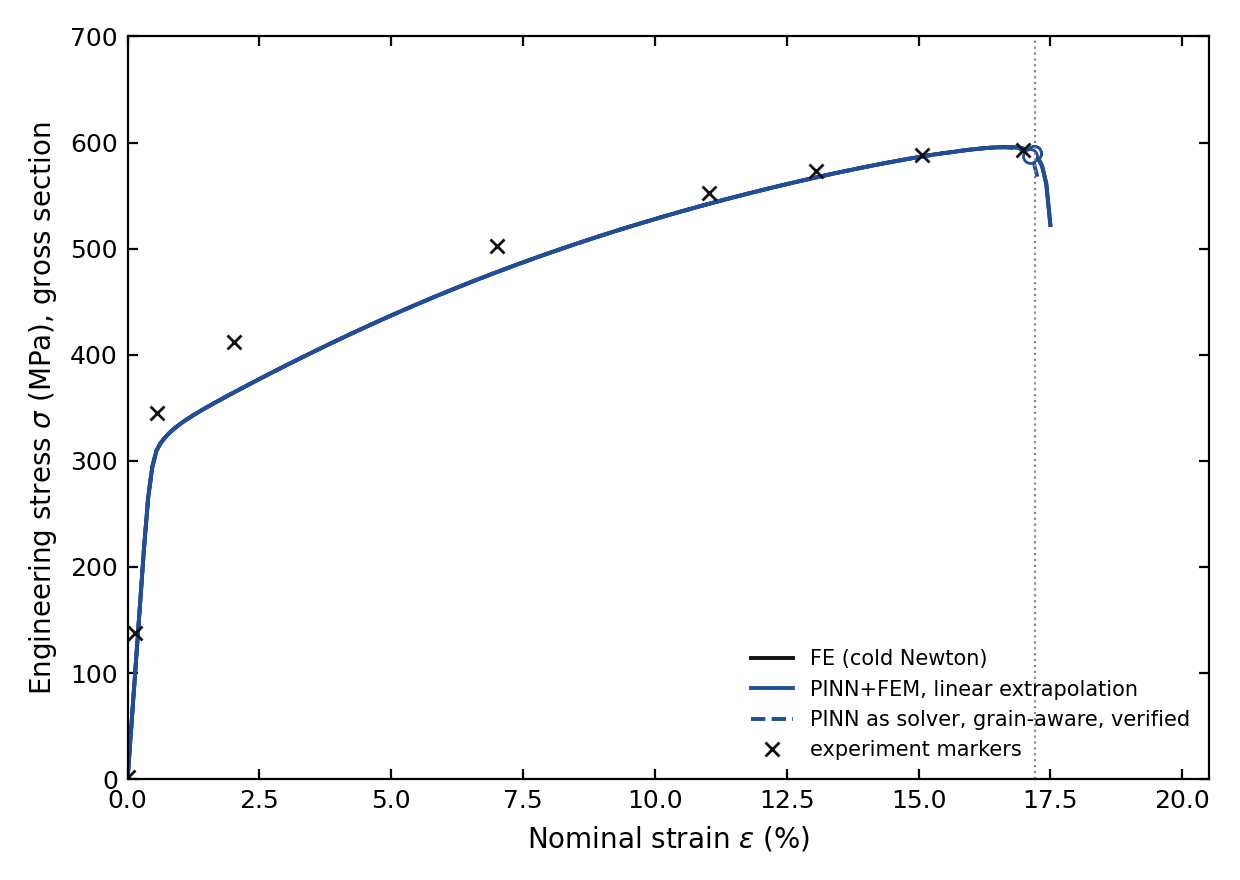
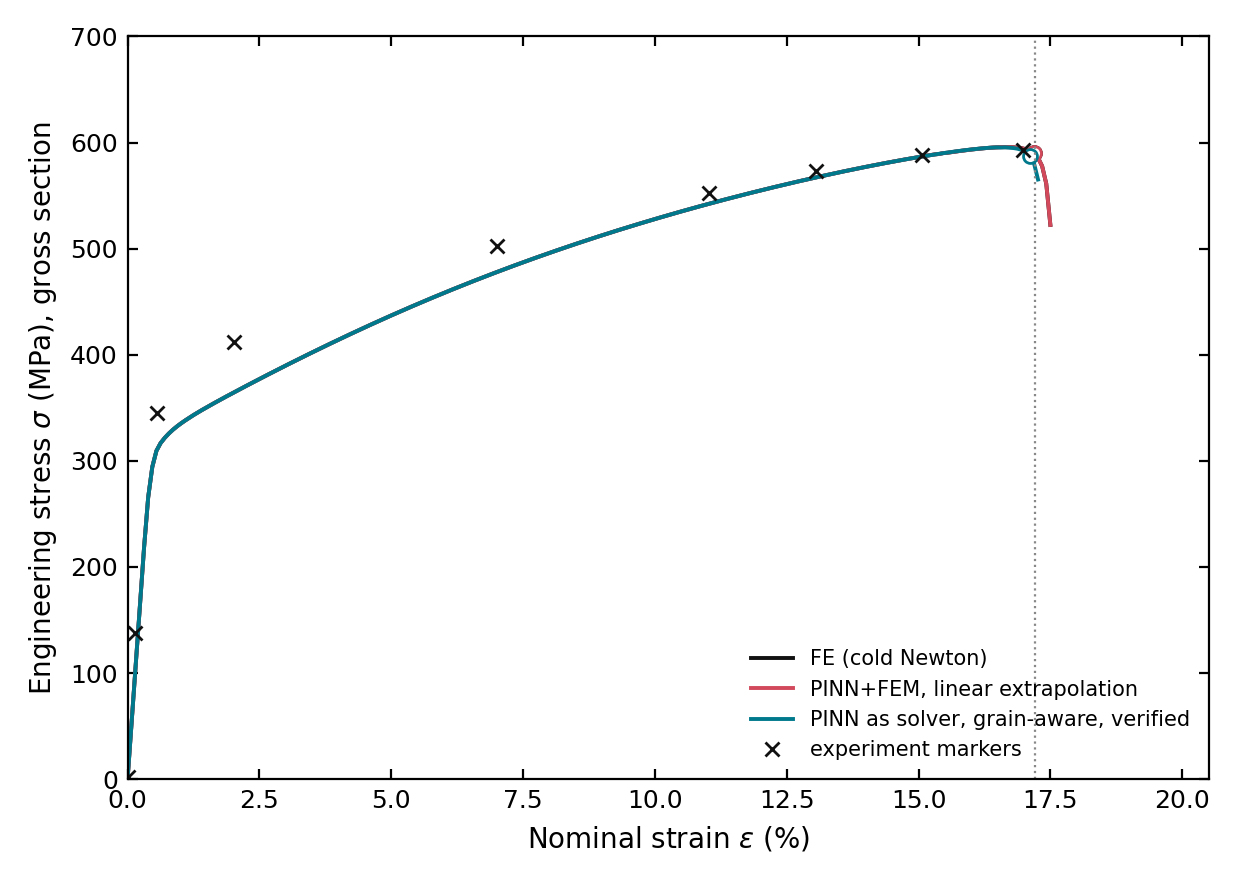
Study figures: one colour per case in short categorical studies (routes, grain instances)

diff --git a/scripts/pfd_study_figures.py b/scripts/pfd_study_figures.py
@@ -64,6 +64,8 @@ VALUE_STYLES = ["-", "--", "-.", ":"]
 
 def _case_style(rows: list[dict]) -> dict[str, tuple[str, str]]:
     """(colour, linestyle) per case of a categorical study: colour by the varied parameter, style by its value."""
+    if len(rows) <= 4:   # a short categorical study (routes, grain instances): one colour per case
+        return {r["case"]: ("#111111" if not r["params"] else PARAM_COLOURS[i % len(PARAM_COLOURS)], "-") for i, r in enumerate(rows)}
     groups: dict[str, list[str]] = {}
     for r in rows:
         param = next(iter(r["params"]), "")
